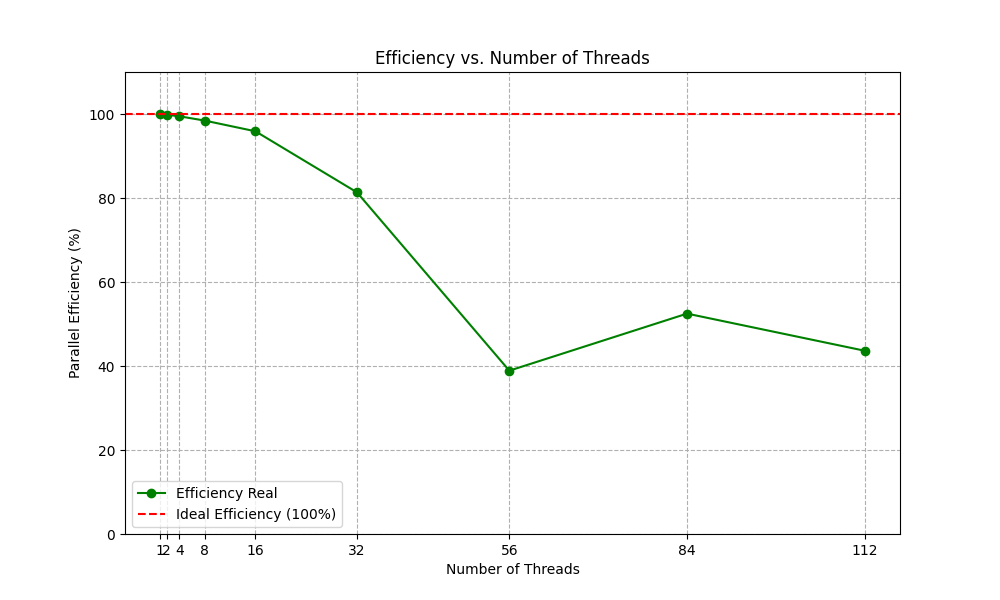
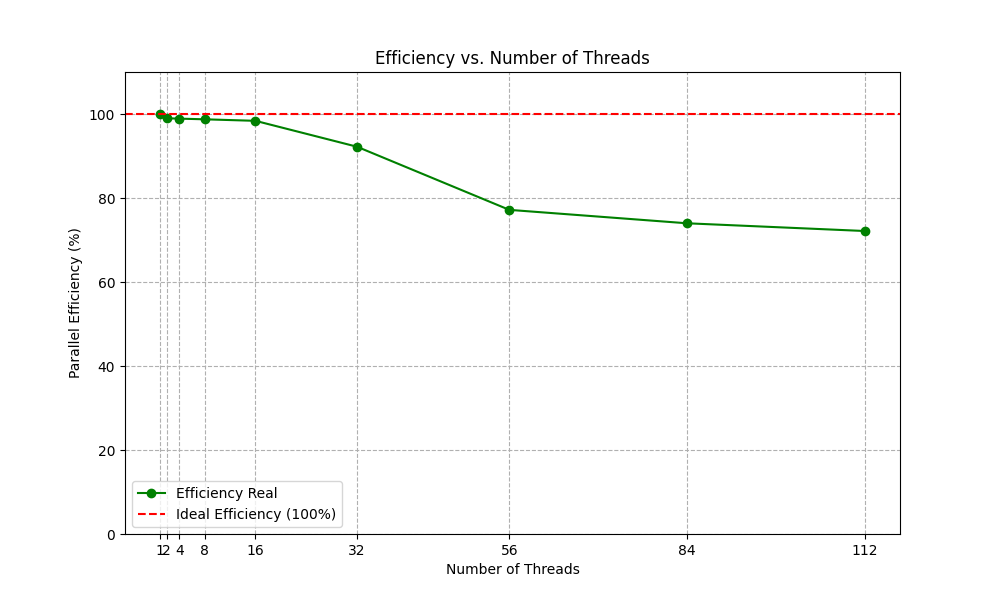
Final version code and test, no plots yet

diff --git a/code/include/stencil_template_parallel.h b/code/include/stencil_template_parallel.h
@@ -57,7 +57,7 @@ extern int update_plane(const int,
  * and receives for all four directions. This allows for overlapping communication
  * with computation.
  */
-extern void exchange_halos(plane_t* plane, uint neighbours[4], MPI_Comm comm, MPI_Request* reqs, int* req_count, MPI_Datatype col_type)
+extern void exchange_halos(plane_t* plane, uint neighbours[4], MPI_Comm comm, MPI_Request* reqs, int* req_count, MPI_Datatype col_type);
 
 extern int get_total_energy(plane_t *,
                             double *);
@@ -265,65 +265,107 @@ inline int get_total_energy(plane_t *plane, double *energy)
 inline int update_interior(const vec2_t   N,         // the grid of MPI tasks
                           const plane_t *oldplane,
                                 plane_t *newplane) {
-    uint register fxsize = oldplane->size[_x_] + 2;
-    uint register xsize = oldplane->size[_x_];
-    uint register ysize = oldplane->size[_y_];
-    double* restrict old = oldplane->data;
-    double* restrict new = newplane->data;  
+    uint sizeX = oldplane->size[_x_];
+    uint sizeY = oldplane->size[_y_];
+    uint frame_size = sizeX + 2;
+    const double * restrict old_data = oldplane->data;
+    double * restrict new_data = newplane->data;
 
-#define IDX(i, j) ((j) * fxsize + (i))
-    #pragma omp parallel for
-    for (uint j = 2; j < ysize; j++) { 
-        for (uint i = 2; i < xsize; i++) { 
-            new[IDX(i, j)] = old[IDX(i, j)] / 2.0 +
-                             (old[IDX(i - 1, j)] + old[IDX(i + 1, j)] +
-                              old[IDX(i, j - 1)] + old[IDX(i, j + 1)]) / 4.0 / 2.0;
+    #pragma omp parallel for collapse(2)
+    for (uint y_block = 2; y_block < sizeY; y_block += TILE_DIM) {
+        for (uint x_block = 2; x_block < sizeX; x_block += TILE_DIM) {
+            
+            for (uint y = y_block; y < y_block + TILE_DIM && y < sizeY; y++) {
+                for (uint x = x_block; x < x_block + TILE_DIM && x < sizeX; x++) {
+                    
+                    uint index = y * frame_size + x;
+                    
+                    double laplacian = old_data[index - 1] + old_data[index + 1] +
+                                       old_data[index - frame_size] + old_data[index + frame_size] -
+                                       4.0 * old_data[index];
+                    
+                    double new_value = old_data[index] + 0.1 * laplacian;
+
+                    #if defined(ARTIFICIAL_WORKLOAD) && ARTIFICIAL_WORKLOAD > 0
+                    volatile double dummy = 0.0;
+                    for (int k = 0; k < ARTIFICIAL_WORKLOAD; ++k) {
+                        dummy += 0.0001;
+                    }
+                    new_value += dummy * 0.0;
+                    #endif
+
+                    new_data[index] = new_value;
+                }
+            }
         }
     }
-    #undef IDX
     return 0;
-
 }
 
 inline int update_borders(const int periodic,
                           const vec2_t N,         // the grid of MPI tasks
                           const plane_t *oldplane,
                                 plane_t *newplane) {
-    uint register fxsize = oldplane->size[_x_] + 2;
-    uint register fysize = oldplane->size[_y_] + 2;
-    uint register xsize = oldplane->size[_x_];
-    uint register ysize = oldplane->size[_y_];
-    double* restrict old = oldplane->data;
-    double* restrict new = newplane->data;
+    uint sizeX = oldplane->size[_x_];
+    uint sizeY = oldplane->size[_y_];
+    uint frame_size = sizeX + 2;
+    const double * restrict old_data = oldplane->data;
+    double * restrict new_data = newplane->data;
 
-#define IDX(i, j) ((j) * fxsize + (i))  
-
-    // Update top and bottom borders (j=1 and j=ysize)
     #pragma omp parallel for
-    for (uint i = 1; i <= xsize; i++) {
-        // Top border (j=1), using halo cell at j=0
-        new[IDX(i, 1)] = old[IDX(i, 1)] / 2.0 +
-                         (old[IDX(i - 1, 1)] + old[IDX(i + 1, 1)] +
-                          old[IDX(i, 0)] + old[IDX(i, 2)]) / 4.0 / 2.0;
-        // Bottom border (j=ysize), using halo cell at j=ysize+1
-        new[IDX(i, ysize)] = old[IDX(i, ysize)] / 2.0 +
-                             (old[IDX(i - 1, ysize)] + old[IDX(i + 1, ysize)] +
-                              old[IDX(i, ysize - 1)] + old[IDX(i, ysize + 1)]) / 4.0 / 2.0;
+    for (uint x_block = 1; x_block < sizeX + 1; x_block += TILE_DIM) {
+        for (uint x = x_block; x < x_block + TILE_DIM && x < sizeX + 1; x++) {
+            uint index_n = 1 * frame_size + x;
+            double laplacian_n = old_data[index_n - 1] + old_data[index_n + 1] + old_data[index_n - frame_size] + old_data[index_n + frame_size] - 4.0 * old_data[index_n];
+            double new_value_n = old_data[index_n] + 0.1 * laplacian_n;
+            
+            #if defined(ARTIFICIAL_WORKLOAD) && ARTIFICIAL_WORKLOAD > 0
+            volatile double dummy_n = 0.0;
+            for (int k = 0; k < ARTIFICIAL_WORKLOAD; ++k) { dummy_n += 0.0001; }
+            new_value_n += dummy_n * 0.0;
+            #endif
+            new_data[index_n] = new_value_n;
+
+
+            uint index_s = sizeY * frame_size + x;
+            double laplacian_s = old_data[index_s - 1] + old_data[index_s + 1] + old_data[index_s - frame_size] + old_data[index_s + frame_size] - 4.0 * old_data[index_s];
+            double new_value_s = old_data[index_s] + 0.1 * laplacian_s;
+
+            #if defined(ARTIFICIAL_WORKLOAD) && ARTIFICIAL_WORKLOAD > 0
+            volatile double dummy_s = 0.0;
+            for (int k = 0; k < ARTIFICIAL_WORKLOAD; ++k) { dummy_s += 0.0001; }
+            new_value_s += dummy_s * 0.0;
+            #endif
+            new_data[index_s] = new_value_s;
+        }
     }
 
-    // Update left and right borders (i=1 and i=xsize), excluding corners
-    // which were already computed in the loop above.
     #pragma omp parallel for
-    for (uint j = 2; j < ysize; j++) {
-        // Left border (i=1), using halo cell at i=0
-        new[IDX(1, j)] = old[IDX(1, j)] / 2.0 +
-                         (old[IDX(0, j)] + old[IDX(2, j)] +
-                          old[IDX(1, j - 1)] + old[IDX(1, j + 1)]) / 4.0 / 2.0;
-        // Right border (i=xsize), using halo cell at i=xsize+1
-        new[IDX(xsize, j)] = old[IDX(xsize, j)] / 2.0 +
-                             (old[IDX(xsize - 1, j)] + old[IDX(xsize + 1, j)] +
-                              old[IDX(xsize, j - 1)] + old[IDX(xsize, j + 1)]) / 4.0 / 2.0;
-    }   
-#undef IDX
+    for (uint y_block = 2; y_block < sizeY; y_block += TILE_DIM) {
+        for (uint y = y_block; y < y_block + TILE_DIM && y < sizeY; y++) {
+            uint index_w = y * frame_size + 1;
+            double laplacian_w = old_data[index_w - 1] + old_data[index_w + 1] + old_data[index_w - frame_size] + old_data[index_w + frame_size] - 4.0 * old_data[index_w];
+            double new_value_w = old_data[index_w] + 0.1 * laplacian_w;
+
+            #if defined(ARTIFICIAL_WORKLOAD) && ARTIFICIAL_WORKLOAD > 0
+            volatile double dummy_w = 0.0;
+            for (int k = 0; k < ARTIFICIAL_WORKLOAD; ++k) { dummy_w += 0.0001; }
+            new_value_w += dummy_w * 0.0;
+            #endif
+            new_data[index_w] = new_value_w;
+
+            uint index_e = y * frame_size + sizeX;
+            double laplacian_e = old_data[index_e - 1] + old_data[index_e + 1] + old_data[index_e - frame_size] + old_data[index_e + frame_size] - 4.0 * old_data[index_e];
+            double new_value_e = old_data[index_e] + 0.1 * laplacian_e;
+            
+            #if defined(ARTIFICIAL_WORKLOAD) && ARTIFICIAL_WORKLOAD > 0
+            volatile double dummy_e = 0.0;
+            for (int k = 0; k < ARTIFICIAL_WORKLOAD; ++k) { dummy_e += 0.0001; }
+            new_value_e += dummy_e * 0.0;
+            #endif
+            new_data[index_e] = new_value_e;
+        }
+    }
+
     return 0;
 }   

diff --git a/scripts/plot_weak.py b/scripts/plot_weak.py
@@ -1,0 +1,55 @@
+import pandas as pd
+import matplotlib.pyplot as plt
+import sys
+
+# --- CONFIGURACIÓN ---
+# 1. Escribe aquí el nombre de tu fichero de datos de entrada.
+input_filename = "plots/weak_scaling_results.csv"
+output_filename = 'weak_scaling_plot.png'
+# --- FIN DE LA CONFIGURACIÓN ---
+
+
+# 2. Cargar los datos desde el fichero .csv
+try:
+    # Intentamos leer el fichero CSV especificado arriba.
+    df = pd.read_csv(input_filename)
+    print(f"Fichero '{input_filename}' cargado exitosamente.")
+except FileNotFoundError:
+    # Si el fichero no existe, mostramos un error claro y salimos.
+    print(f"--- ERROR: No se encontró el fichero '{input_filename}' ---")
+    print("Asegúrate de que el script se está ejecutando en la misma carpeta que tu fichero .csv,")
+    print("o de que el nombre del fichero está escrito correctamente en la sección de CONFIGURACIÓN.")
+    sys.exit(1) # Termina el script con un código de error.
+
+# Es muy importante ordenar los datos por el número de nodos para que la gráfica se muestre correctamente.
+df_sorted = df.sort_values(by='Nodes').reset_index(drop=True)
+
+# 3. Preparar la gráfica
+plt.style.use('seaborn-v0_8-whitegrid')
+fig, ax = plt.subplots(figsize=(10, 6))
+
+# El tiempo ideal en escalado débil es el tiempo que tarda la ejecución con 1 nodo.
+baseline_time = df_sorted.loc[df_sorted['Nodes'] == 1, 'Total_Time'].iloc[0]
+
+# Convertimos los nodos a texto para que el eje X los trate como categorías separadas.
+nodes_str = df_sorted['Nodes'].astype(str)
+
+# 4. Dibujar los elementos de la gráfica
+ax.bar(nodes_str, df_sorted['Total_Time'], color='dodgerblue', label='Tiempo de Ejecución Real')
+ax.axhline(y=baseline_time, color='r', linestyle='--', label=f'Tiempo Ideal ({baseline_time:.2f}s)')
+
+# 5. Añadir etiquetas, títulos y leyendas
+ax.set_xlabel('Número de Nodos', fontsize=12)
+ax.set_ylabel('Tiempo Total de Ejecución (segundos)', fontsize=12)
+ax.set_title('Análisis de Escalabilidad Débil', fontsize=16)
+ax.legend(fontsize=12)
+ax.grid(axis='y', linestyle='--', alpha=0.7)
+ax.set_ylim(bottom=0, top=max(df_sorted['Total_Time']) * 1.1)
+
+# Añadimos etiquetas con el valor exacto encima de cada barra.
+for i, val in enumerate(df_sorted['Total_Time']):
+    ax.text(i, val + 10, f'{val:.2f}s', ha='center', va='bottom', fontsize=10)
+
+# 6. Guardar la gráfica
+plt.savefig(output_filename, bbox_inches='tight', dpi=150)
+print(f"Gráfica guardada exitosamente como '{output_filename}'")

diff --git a/code/src/stencil_template_parallel.c b/code/src/stencil_template_parallel.c
@@ -9,8 +9,8 @@
 
 #include "stencil_template_parallel.h"
 
-
-
+#define ARTIFICIAL_WORKLOAD 150
+#define TILE_DIM 32
 /**
  * Manages the exchange of halo (ghost) cell data between a process and its neighbors.
  *
